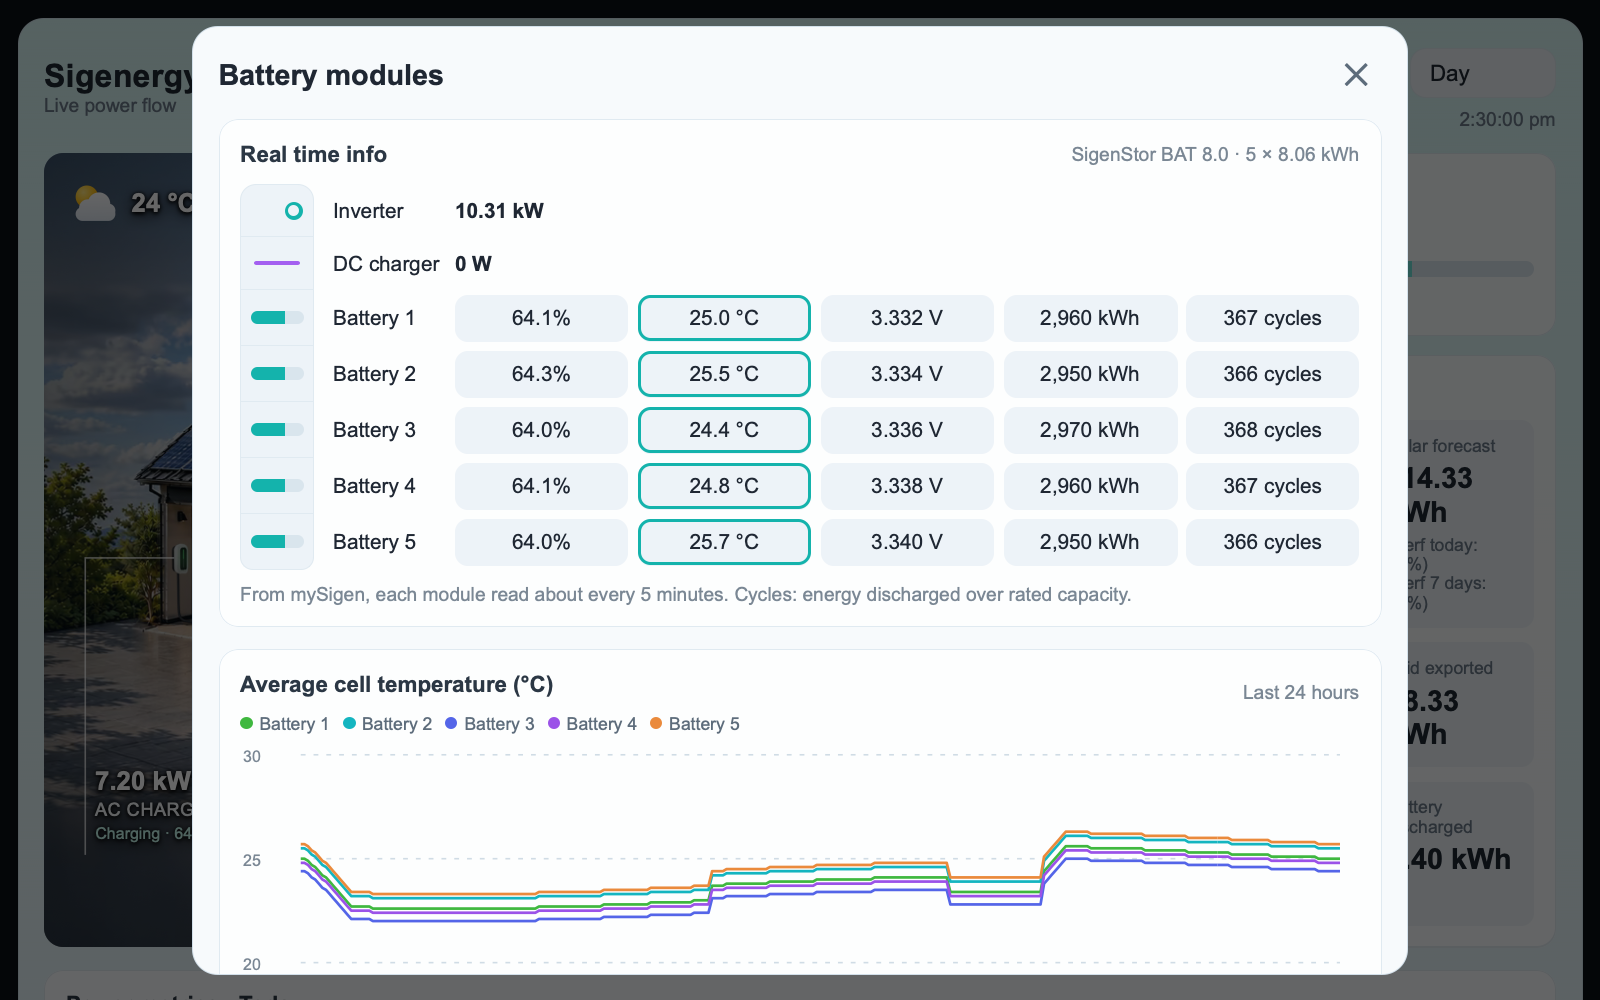
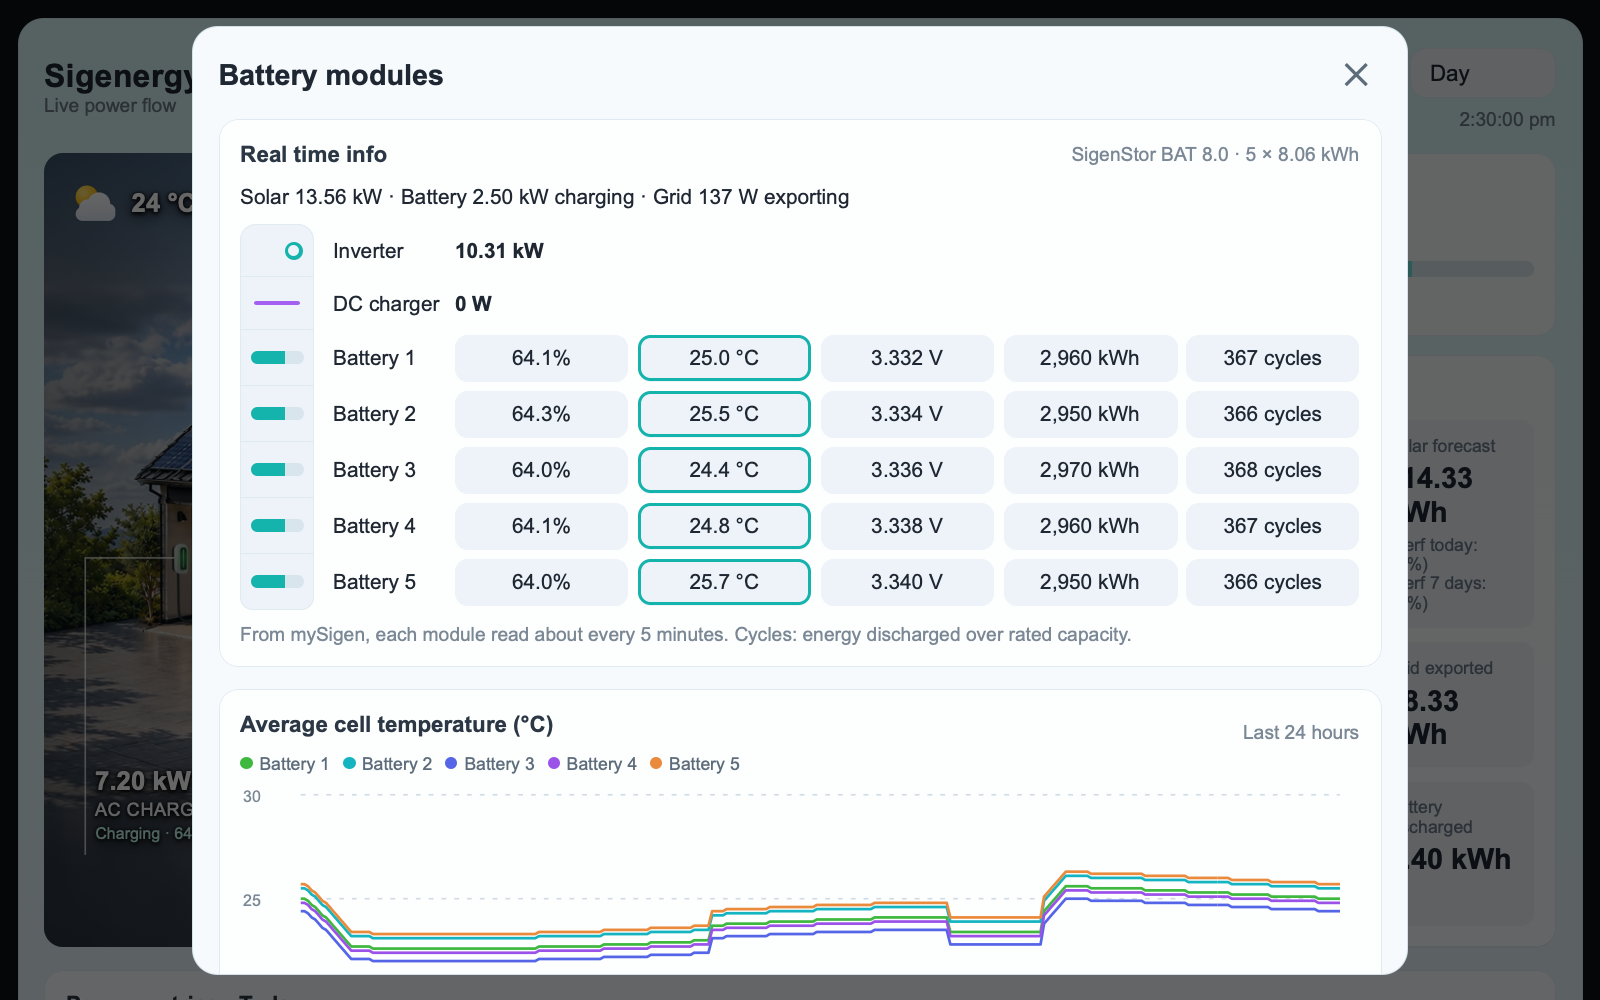
Mark the card file as v84 and refresh the screenshots

diff --git a/sigenergy-flow-card.js b/sigenergy-flow-card.js
@@ -14,7 +14,7 @@
  * limitations under the License.
  */
 
-/* Sigenergy Flow Card v83 — standalone Home Assistant Lovelace custom card */
+/* Sigenergy Flow Card v84 — standalone Home Assistant Lovelace custom card */
 
 // Scene coordinates: the house photo (1676x557 units) sits between a band above it for the SOLAR and HOME
 // readings and a band below it for SigenStor and GRID. tools/embed-artwork.py builds both bands from

diff --git a/CHANGELOG.md b/CHANGELOG.md
@@ -2,6 +2,26 @@
 
 Each release is tagged `vN` on GitHub; HACS offers the newest release as the update.
 
+## v84
+
+- Tap the SigenStor in the photo to see each battery module, as in the mySigen app, without tapping each module.
+  - It draws the stack: the inverter, the DC charger, then each module filled to its charge level.
+  - Above the stack: the solar, battery and grid power.
+  - Beside each module: its state of charge, average cell temperature and voltage, total energy discharged, and cycles (energy discharged over rated capacity).
+  - Tap a reading, other than cycles, to chart it for every module over the last 24 hours.
+- The modules come from mySigen, through either:
+  - the [Sigenergy ESS – mySigen cloud](https://github.com/TypQxQ/Sigenergy-Local-Modbus-mySigen) add-on;
+  - sigenergy2mqtt with its Cloud access set up. Enable each module's Rated Battery Capacity sensor for the cycles, and the inverter's Active Power for its power.
+- Without either, the photo isn't clickable. There is nothing to configure.
+- The card finds Sigenergy ESS entities whose IDs don't start with the default name ([#34](https://github.com/jyavenard/sigenergy-flow-card/issues/34)).
+  - Since 2026.8, Home Assistant puts a device's area in front of its new entity IDs, e.g. `sensor.garage_sigen_plant_pv_power`.
+  - New installs with their devices in an area showed every reading empty.
+  - Each device is found by itself. The plant, the inverter, each PV string and each charger can be in a different area.
+  - A device you renamed is found too, whether or not you recreated its entity IDs.
+  - An install upgraded from Sigenergy Local Modbus 1.x keeps the DC charger's old output power name, which recreated IDs carry. The card finds it.
+  - Entities set under `entities:` are used as written.
+- The README lists the sensors to enable for the battery modules dialog, for each integration.
+
 ## v84-pre2
 
 Pre-release, for testing.
